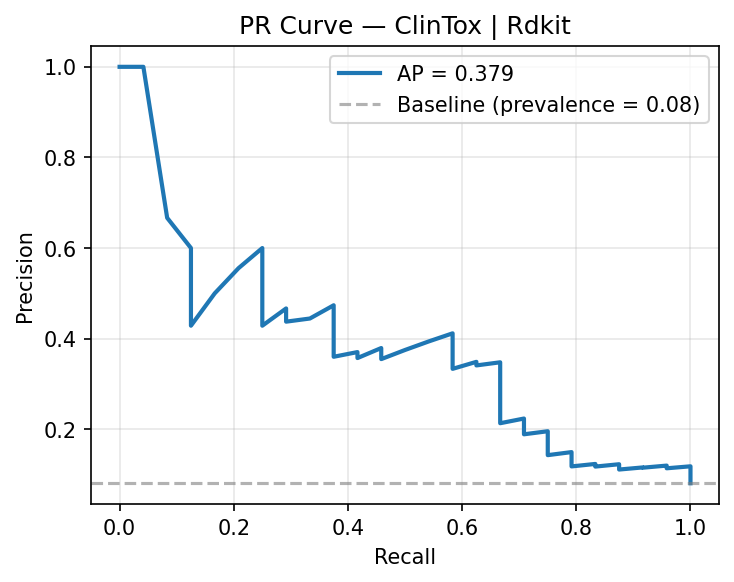
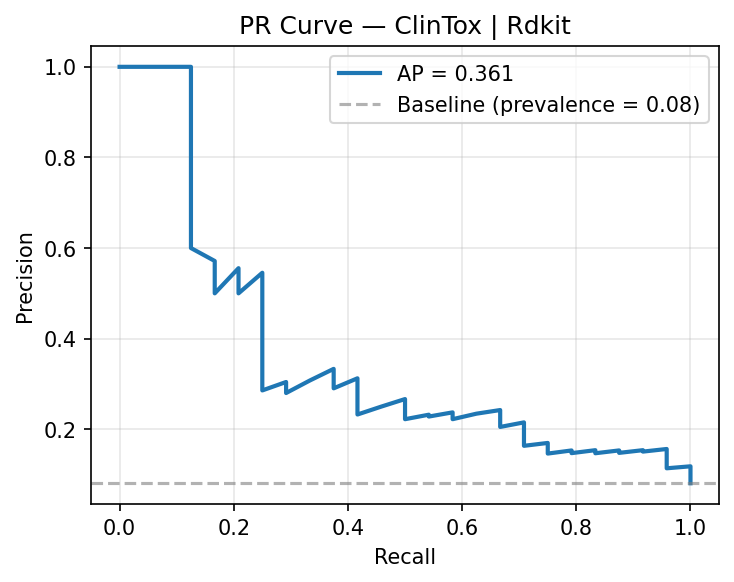
changed refit in tuning_models.py by refitting the model only in the train dataset and testing on the valid dataset

diff --git a/tuning_models.py b/tuning_models.py
@@ -8,7 +8,9 @@ from sklearn.preprocessing import StandardScaler
 from sklearn.model_selection import RandomizedSearchCV, PredefinedSplit
 from sklearn.metrics import average_precision_score, roc_auc_score
 from sklearn.pipeline import Pipeline
+from sklearn.base import clone
 import os
+import utils
 
 
 def safe_ap(y, p):
@@ -36,8 +38,7 @@ if __name__ == "__main__":
             valid_df = df[df["split"] == "valid"]
             test_df  = df[df["split"] == "test"]
 
-            feat_cols = [c for c in df.columns if c not in ["Y", "split", "Drug", "Drug_ID"]
-                         and pd.api.types.is_numeric_dtype(df[c])]
+            feat_cols = utils.get_feature_columns(df)
 
             X_train = np.clip(train_df[feat_cols].replace([np.inf, -np.inf], np.nan).values, -1e30, 1e30)
             y_train = train_df["Y"].values
@@ -106,12 +107,15 @@ if __name__ == "__main__":
                     n_iter=n_iter,
                     scoring="average_precision",
                     cv=ps,
+                    refit=False,          # don't refit on train+valid; we refit on train only below
                     random_state=42,
                     n_jobs=-1,
                 )
                 search.fit(X_combined, y_combined)
 
-                best = search.best_estimator_
+                # Refit the winning config on TRAIN ONLY, so valid stays a clean hold-out
+                best = clone(pipe).set_params(**search.best_params_)
+                best.fit(X_train, y_train)
                 p_valid = best.predict_proba(X_valid)[:, 1]
                 p_test  = best.predict_proba(X_test)[:, 1]
 
